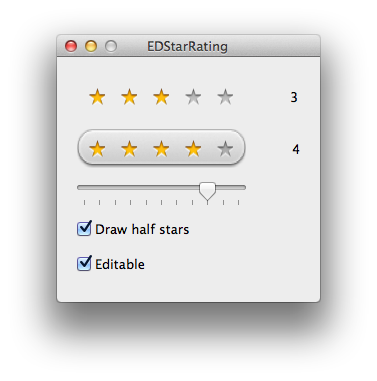
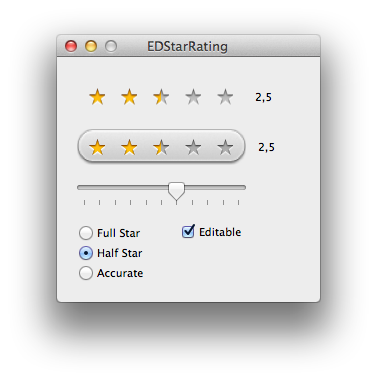
Updated Readme and changed screenshot

diff --git a/README.md b/README.md
@@ -17,7 +17,7 @@ Example:
   starRating.delegate = self;
   starRating.horizontalMargin = 12;
   starRating.editable=YES;
-  starRating.drawHalfStars=YES;
+  displayMode=EDStarRatingDisplayFull;
 
 
   starRating.rating= 2.5;
